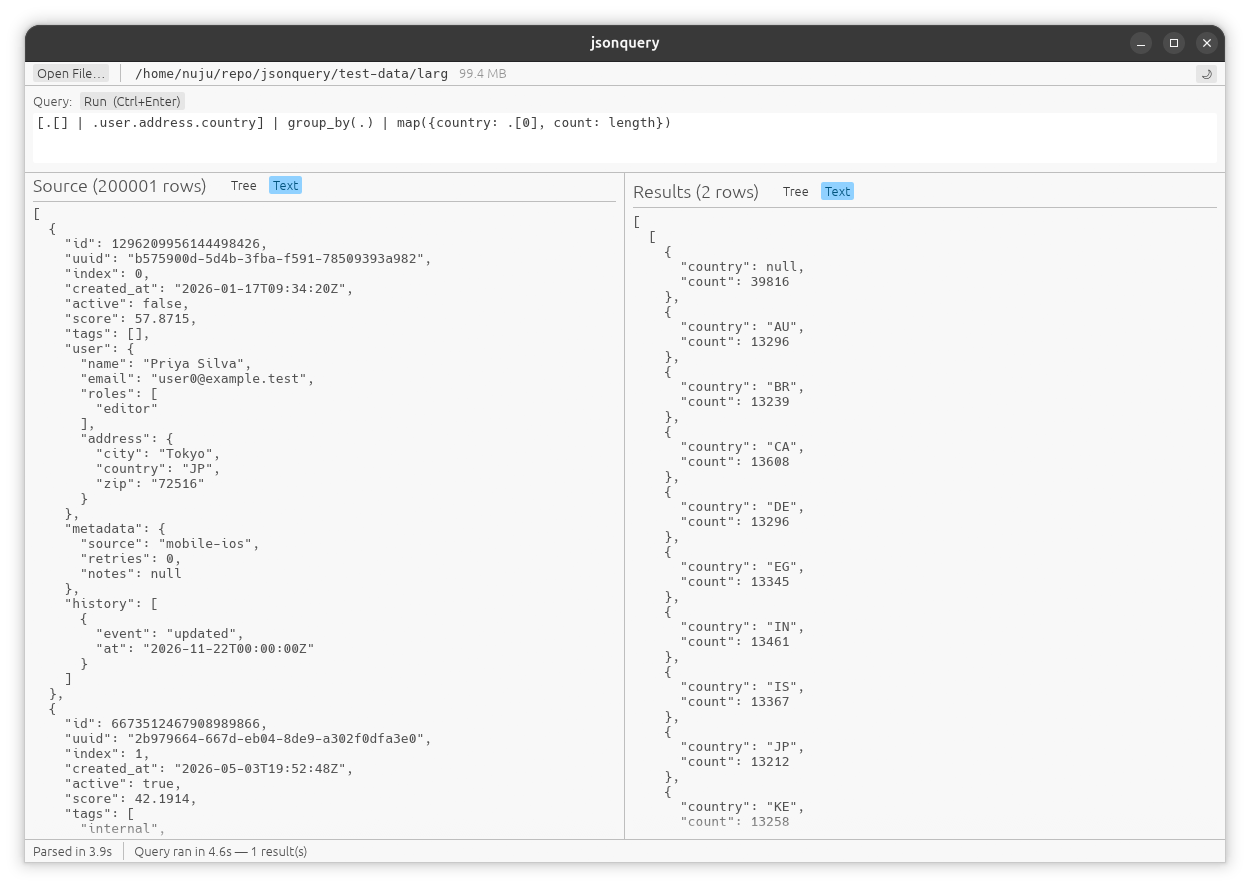
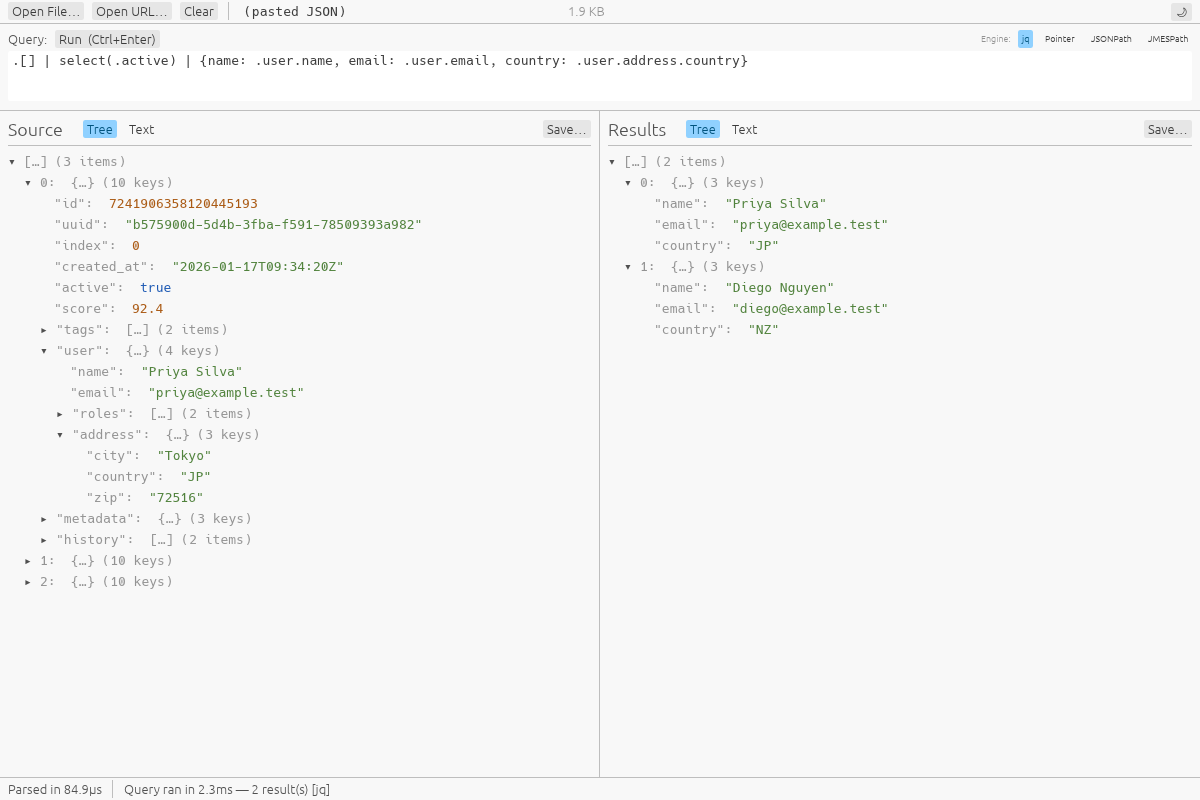
chore: bump to 0.2.0, refresh README and screenshot for release
Cargo workspace version bump reflects the query-engine picker (jq/Pointer/
JSONPath/JMESPath), search, context menus and save/load-via-URL shipped
since 0.1.0. README rewritten more concisely with a full feature list,
renamed heading to "jsonquery gui", and corrected the stale
release/build-from-source instructions. Screenshot replaced with a fresh
light-theme capture showing the engine picker and expanded source/results
trees, matching the current UI.

diff --git a/README.md b/README.md
@@ -1,8 +1,8 @@
-# jsonquery
+# jsonquery gui
 
 A native desktop tool for browsing and querying large JSON files — drag in a
-file (or paste JSON directly), write a [jq](https://jqlang.github.io/jq/)
-compatible query, and see the result as a scrollable tree. Built in Rust with
+file (or paste JSON directly) and query it with **jq**, **JSON Pointer**,
+**JSONPath**, or **JMESPath**. Built in Rust with
 [egui](https://github.com/emilk/egui)/[eframe](https://github.com/emilk/egui).
 
 ![jsonquery screenshot](docs/images/screenshot.png)
@@ -11,80 +11,91 @@ compatible query, and see the result as a scrollable tree. Built in Rust with
 
 This project — the code, the architecture docs, and the build tooling — was
 built by [Claude](https://claude.com) (Anthropic's AI), working from a series
-of prompts by the repo owner. It's as much an experiment in AI-driven
-software development as it is a JSON tool. The [architecture proposal and
-decision docs](docs/index.html) capture the reasoning behind the design
-choices along the way — open them locally in a browser to read them rendered
-(GitHub shows `.html` files as source, not as pages).
+of prompts by the repo owner. The [architecture proposal and decision
+docs](docs/index.html) capture the reasoning behind the design choices along
+the way — open them locally in a browser to read them rendered (GitHub shows
+`.html` files as source, not as pages).
+
+## Features
+
+- **Four query dialects, one box** — [jq](https://jqlang.github.io/jq/) (via
+  embedded [jaq](https://github.com/01mf02/jaq)), JSON Pointer (RFC 6901),
+  JSONPath (RFC 9535), and JMESPath. Pick one from the toolbar or let the app
+  auto-detect it from what you type.
+- **Streamed, cancellable queries** — results appear as jq produces them, so
+  `first(...)`/`limit(...)` genuinely stop early; starting a new query aborts
+  whatever was still running.
+- **Exact number round-tripping** — big integers (snowflake IDs, Postgres
+  bigints) survive a query byte-for-byte instead of quietly rounding through
+  an `f64`.
+- **NDJSON support** — one JSON value per line loads as a single queryable
+  document, no separate format to pick.
+- **Tree or raw text views** — toggle either the source document or the
+  query results between a virtualized, expand/collapse tree and
+  plain, selectable/copyable pretty-printed text.
+- **Search** — case-insensitive substring or regex search across the source
+  or the results tree, with click-to-reveal on a hit.
+- **Right-click row menus** — copy a node's path, search from that scope, or
+  save just that node to a file.
+- **Save to file** — the whole source document, the whole result set, or a
+  single node, independently.
+- **Load however's convenient** — drag-and-drop, an **Open File…** picker,
+  pasting JSON straight into the text area, or loading from a URL.
+- **Light and dark themes**, switchable from the toolbar.
+- **Keyboard shortcuts** — `Ctrl+Enter` run/apply, `Ctrl+F` search,
+  `Ctrl+S` save (both scoped to whichever panel you last clicked).
 
 ## Status
 
-**Phase 1 (MVP)** is implemented: full in-memory parsing, jq-compatible
-queries via an embedded [jaq](https://github.com/01mf02/jaq), and a
-virtualized-tree GUI for both the source document and query results. It's
+**Phase 1** is implemented: full in-memory parsing, four query dialects, and
+a virtualized-tree GUI for both the source document and query results. It's
 solid for small-to-medium files.
 
 Multi-gigabyte files need Phase 2 (a memory-mapped, lazily-resolved index),
 which isn't built yet. See [`docs/decisions.html`](docs/decisions.html) for
-the full roadmap and the reasoning behind what's built vs. deferred.
+the full roadmap.
 
 ## Known limitations
 
-- **Drag-and-drop doesn't work on native Wayland.** This is a gap in
-  [`winit`](https://github.com/rust-windowing/winit) (the windowing library
-  `eframe` uses), which only implements OS-level file drop events on
-  Windows, macOS, and X11 —
-  [rust-windowing/winit#1881](https://github.com/rust-windowing/winit/issues/1881)
-  tracks it upstream. **Open File…** and pasting JSON directly both work
-  fine everywhere. As a workaround, run under XWayland instead of native
-  Wayland (if `DISPLAY` is set, XWayland is available) and drag-and-drop
-  starts working:
+- **Drag-and-drop doesn't work on native Wayland** — a gap in
+  [`winit`](https://github.com/rust-windowing/winit) (`eframe`'s windowing
+  library), which only implements OS-level file drop on Windows, macOS, and
+  X11 ([rust-windowing/winit#1881](https://github.com/rust-windowing/winit/issues/1881)).
+  **Open File…** and pasting both work fine everywhere. Workaround: run
+  under XWayland instead (if `DISPLAY` is set, it's available):
   ```sh
   WAYLAND_DISPLAY= cargo run --release -p jsonquery_gui
   ```
-
-## Features
-
-- **Open large-ish files fast** — memory-mapped, no upfront full-file copy.
-- **jq-compatible queries** — a real jq implementation ([jaq](https://github.com/01mf02/jaq)) embedded directly, not a reinvented query language.
-- **Streamed results** — results are pushed to the UI as jaq produces them, so `first(...)`/`limit(...)` genuinely stop early instead of running to completion in the background.
-- **Exact number round-tripping** — big integers (snowflake IDs, Postgres bigints) survive a query byte-for-byte instead of quietly rounding through an `f64`.
-- **NDJSON support** — a file with one JSON value per line is treated as a single queryable document, no separate "format" to pick.
-- **Cancellable queries** — start a new query and the previous one is aborted, not queued behind it.
-- **Drag-and-drop, file picker, or paste** — drop a file anywhere in the window, use **Open File…**, or just paste JSON into the text area and it loads immediately.
-- **Tree or raw text results** — toggle the results panel between the virtualized tree and plain pretty-printed text you can select and copy with the mouse.
-- **Light and dark themes** — switchable from the toolbar.
 
 ## Getting started
 
 ### Download a build
 
-Prebuilt Linux and Windows binaries can be produced with the scripts in
-[`build/`](build/) — see [Building](#building) below. (No binary releases are
-published yet; build from source in the meantime.)
+Prebuilt Linux and Windows binaries are attached to each
+[GitHub Release](https://github.com/nujufas/jsonquery_gui/releases). You can
+also build them yourself with the scripts in [`build/`](build/) — see
+[Building](#building) below.
 
 ### Build from source
 
 Requires a [Rust toolchain](https://rustup.rs/) (stable).
 
 ```sh
-git clone <this repository's URL>
-cd jsonquery
+git clone https://github.com/nujufas/jsonquery_gui.git
+cd jsonquery_gui
 cargo run --release -p jsonquery_gui
 ```
 
 ## Usage
 
-1. Get JSON in: drag a file onto the window, use **Open File…**, or paste
-   JSON straight into the text area on the left — it loads as soon as you
-   paste, no extra step.
-2. Write a query in the bar at the top — plain jq syntax, e.g.:
-   ```
-   .users[] | select(.active) | {name, roles}
-   ```
-3. Press **Run** (or `Ctrl+Enter`). Results stream into the right-hand panel.
-   Switch it between **Tree** (virtualized, expand/collapse) and **Text**
-   (plain, selectable/copyable pretty-printed JSON) with the toggle above it.
+1. Get JSON in: drag a file onto the window, use **Open File…**, paste JSON
+   into the text area, or load a URL.
+2. Pick a query engine (or leave it on auto-detect) and write a query, e.g.
+   `.users[] | select(.active) | {name, roles}` for jq, `/users/0` for
+   Pointer, `$.users[*].name` for JSONPath, or `users[?active].name` for
+   JMESPath.
+3. Press **Run** (or `Ctrl+Enter`). Results stream into the right-hand
+   panel — toggle it between **Tree** and **Text**, search it, or save it.
 
 ## Building
 
@@ -101,45 +112,35 @@ Cross-platform packaged builds live in [`build/`](build/), output to `dist/`:
 build/linux.sh      # native release build -> .tar.gz
 build/appimage.sh   # native release build -> self-integrating .AppImage
 build/windows.sh    # cross-compiled via `cross`/Docker -> .zip
-build/all.sh         # all three, plus a listing of dist/
+build/all.sh        # all three, plus a listing of dist/
 ```
 
-`build/windows.sh` needs a working Docker daemon — it cross-compiles inside a
-container that already has the mingw-w64 toolchain, so nothing is installed
-on the host. `build/appimage.sh` downloads `appimagetool` on first use
-(cached in `build/`) and needs FUSE to run it.
+`build/windows.sh` needs a working Docker daemon (cross-compiles inside a
+container with the mingw-w64 toolchain already installed). `build/appimage.sh`
+downloads `appimagetool` on first use and needs FUSE to run it. On an actual
+Windows machine, `build\windows.bat` builds natively instead — same output
+layout, just needs a Rust toolchain and PowerShell.
 
-On an actual Windows machine, skip the cross-compile and build natively
-instead:
-
-```bat
-build\windows.bat   # native release build -> .zip
-```
-
-Same output layout as the other scripts (`dist\jsonquery_gui-<version>-windows-x86_64.zip`).
-Just needs a Rust toolchain and PowerShell (bundled since Windows 10 /
-Server 2016) to create the zip.
-
-The AppImage is desktop-pinnable out of the box: on first launch it registers
-a `.desktop` entry and icon under `~/.local/share` (no `appimaged` /
-AppImageLauncher required), and the window's app ID matches
-`StartupWMClass` in that entry, so window managers correctly associate the
-running window with the launcher icon — right-click it in the
-taskbar/dock and "Pin" works as expected.
+The AppImage is desktop-pinnable out of the box: it self-registers a
+`.desktop` entry and icon on first launch (no `appimaged`/AppImageLauncher
+required), so right-click → Pin works from the taskbar/dock immediately.
 
 ## Development
 
 ```sh
-cargo test --workspace     # unit tests (core parsing/tree logic, query engine)
+cargo test --workspace     # unit tests (core parsing/tree logic, query engines)
 cargo clippy --workspace --all-targets
 ```
 
 The workspace is split into three crates so the non-GUI logic can be tested
-and benchmarked without pulling in a GUI toolkit:
+without pulling in a GUI toolkit:
 
 - **`crates/core`** — file ingest (mmap + parse) and the virtualized-tree data layer.
-- **`crates/query`** — the embedded jaq query engine and its `serde_json::Value ⇄ jaq_json::Val` conversion.
+- **`crates/query`** — the four query engines, dispatched through a shared `QueryEngine` trait.
 - **`crates/app`** — the eframe/egui application itself.
+
+A Robot Framework GUI test suite (screen-driven, OCR-assisted) lives under
+[`test/`](test/README.md) — see that README for how to run it.
 
 ## Architecture
 
@@ -149,6 +150,7 @@ is written up in [`docs/`](docs/index.html):
 - [`docs/index.html`](docs/index.html) — problem statement, goals, high-level shape.
 - [`docs/architecture.html`](docs/architecture.html) — the full system design.
 - [`docs/decisions.html`](docs/decisions.html) — the decisions that shaped the build, open risks, and the roadmap.
+- [`docs/query-engines.html`](docs/query-engines.html) — the query-dialect landscape and why these four were picked.
 
 (Open these locally in a browser — GitHub renders `.html` files as source, not as pages.)
 
